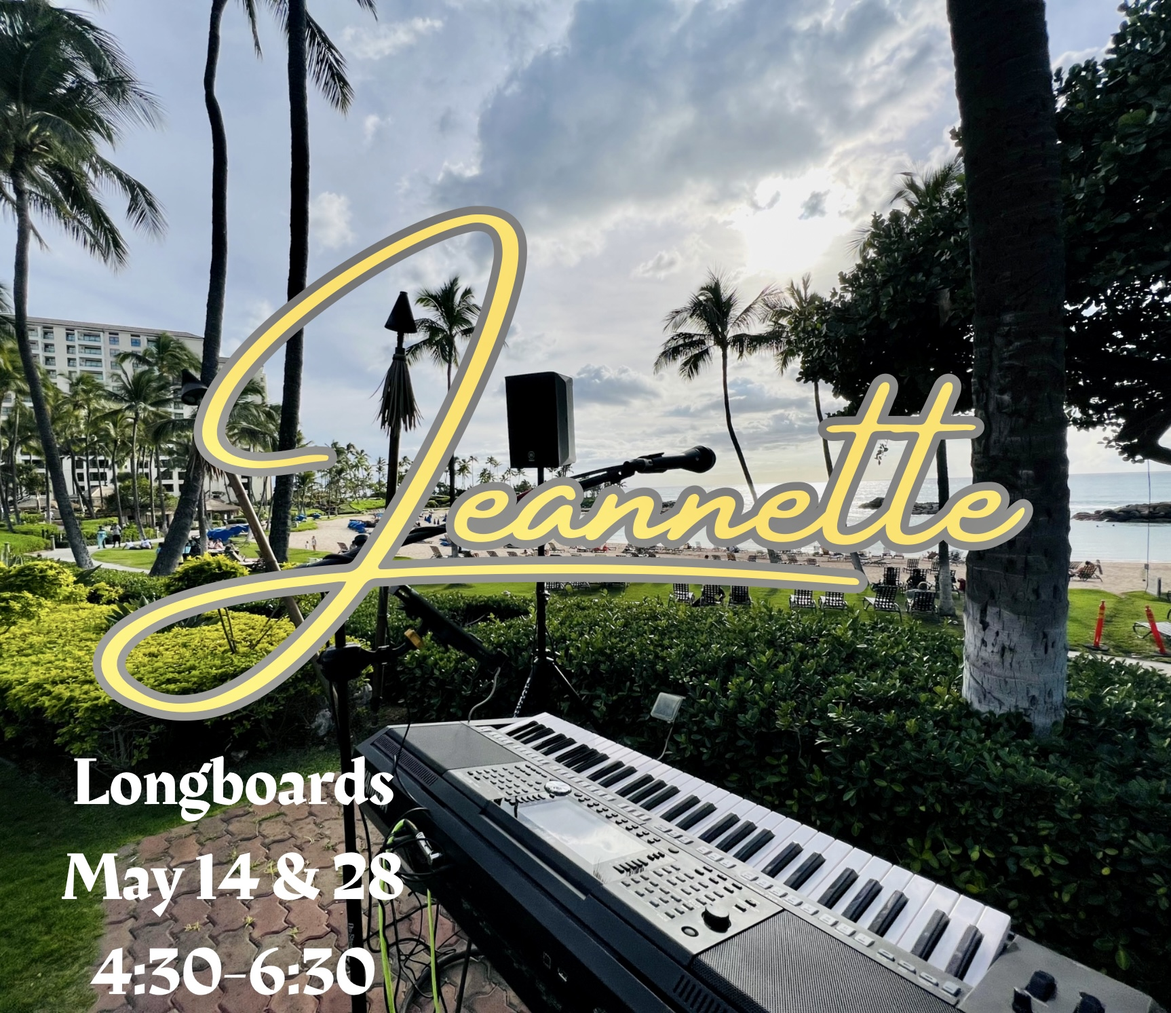
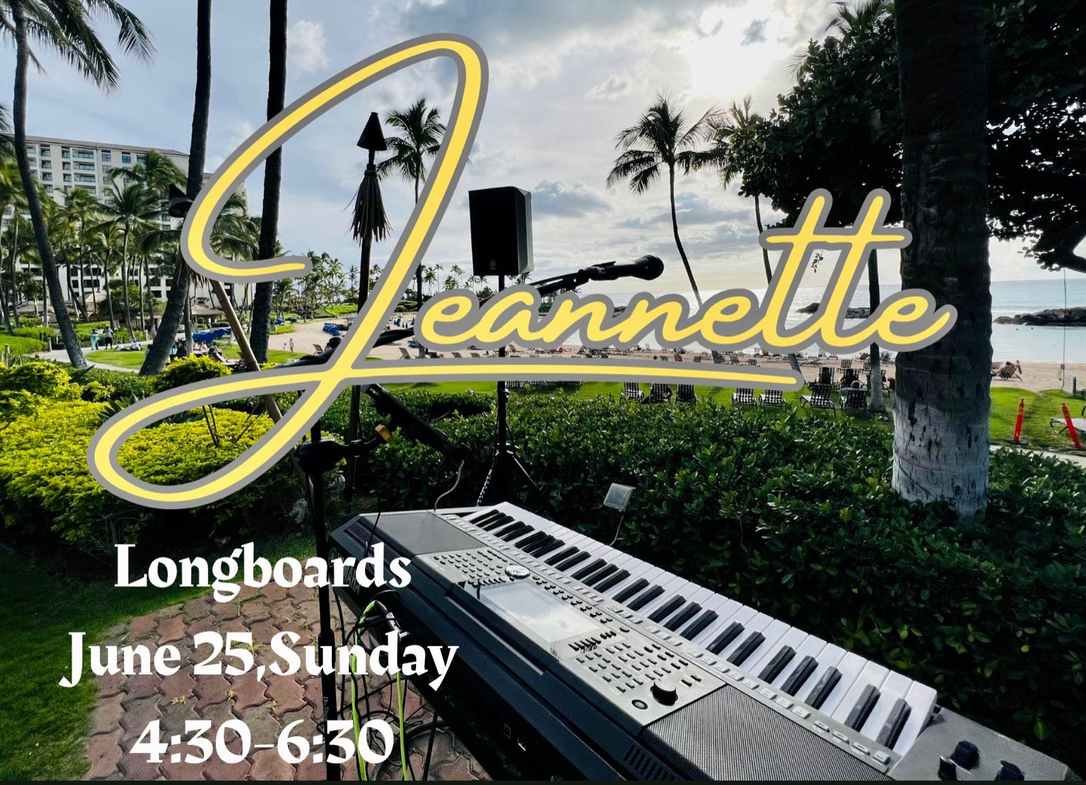
Update for June

diff --git a/components/upcoming-shows.tsx b/components/upcoming-shows.tsx
@@ -1,10 +1,11 @@
 import Image from "next/image";
-import elksPic from "../public/images/site/Elks.jpg";
-import beerworksPic from "../public/images/site/Beerworks.jpg";
-import rooftopPic from "../public/images/site/Rooftop.jpg";
-import birthdayPic from "../public/images/site/Birthday.jpg";
-import longboardsPic from "../public/images/site/Longboards.jpg";
-import waikikiYachtClubPic from "../public/images/site/WaikikiYachtClub.jpg";
+import pic01 from "../public/images/site/Hibiscus.jpg";
+import pic02 from "../public/images/site/HCC.jpg";
+import pic03 from "../public/images/site/Castle.jpg";
+import pic04 from "../public/images/site/Tropics.jpg";
+import pic05 from "../public/images/site/Puena.jpg";
+import pic06 from "../public/images/site/Longboards.jpg";
+import pic07 from "../public/images/site/Hilton.jpg";
 
 function UpcomingShows() {
   return (
@@ -14,34 +15,37 @@ function UpcomingShows() {
           Upcoming Shows
         </h1>
         <div className="columns-1 justify-around pt-5 pb-10">
-          <div className="text-center pt-5">
-            <Image src={elksPic} alt="Jeannette Trevias at Elks" />
-          </div>
           <div className="text-center pt-8">
             <Image
-              src={birthdayPic}
-              alt="Jeannette Trevias Birthday Celebration"
+              src={pic01}
+              alt="Jeannette Trevias at the Hilton Hawaiian Village"
             />
           </div>
           <div className="text-center pt-8">
             <Image
-              src={waikikiYachtClubPic}
-              alt="Jeannette Trevias at the Waikiki Yacht Club"
+              src={pic02}
+              alt="Jeannette Trevias at the Honolulu Convention Center"
             />
           </div>
+          <div className="text-center pt-5">
+            <Image src={pic03} alt="Jeannette Trevias at Castle" />
+          </div>
           <div className="text-center pt-8">
-            <Image src={rooftopPic} alt="Jeannette Trevias at the Rooftop" />
+            <Image src={pic04} alt="Jeannette Trevias at Tropics" />
+          </div>
+          <div className="text-center pt-8">
+            <Image src={pic05} alt="Jeannette Trevias at the Puena Cafe" />
           </div>
           <div className="text-center pt-5">
             <Image
-              src={longboardsPic}
+              src={pic06}
               alt="Jeannette Trevias at the Ko'olina Beach Club Longboards"
             />
           </div>
           <div className="text-center pt-8">
             <Image
-              src={beerworksPic}
-              alt="Jeannette Trevias at the Honolulu Beerworks"
+              src={pic07}
+              alt="Jeannette Trevias at the Hilton Hawaiian Village"
             />
           </div>
         </div>

diff --git a/components/schedule.tsx b/components/schedule.tsx
@@ -1,5 +1,5 @@
 import Image from "next/image";
-import schedulePic from "../public/images/site/Schedule-2023-05.jpg";
+import schedulePic from "../public/images/site/Schedule-2023-06.jpg";
 
 function Schedule() {
   return (
